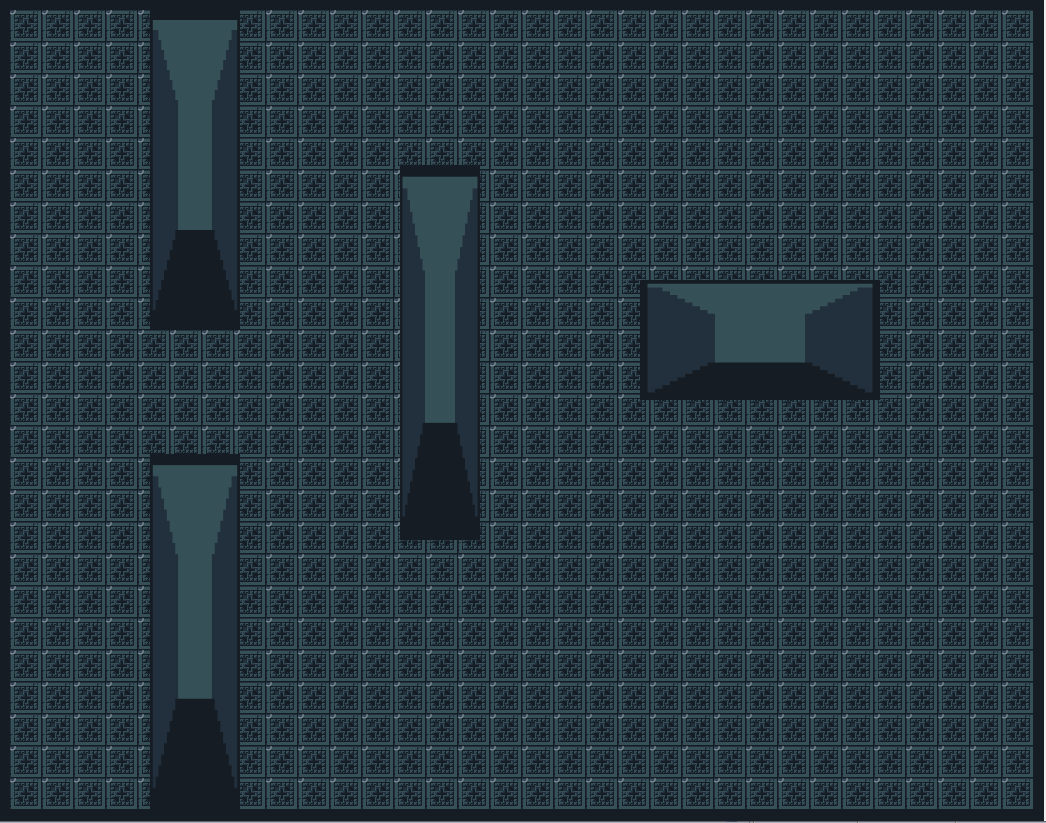
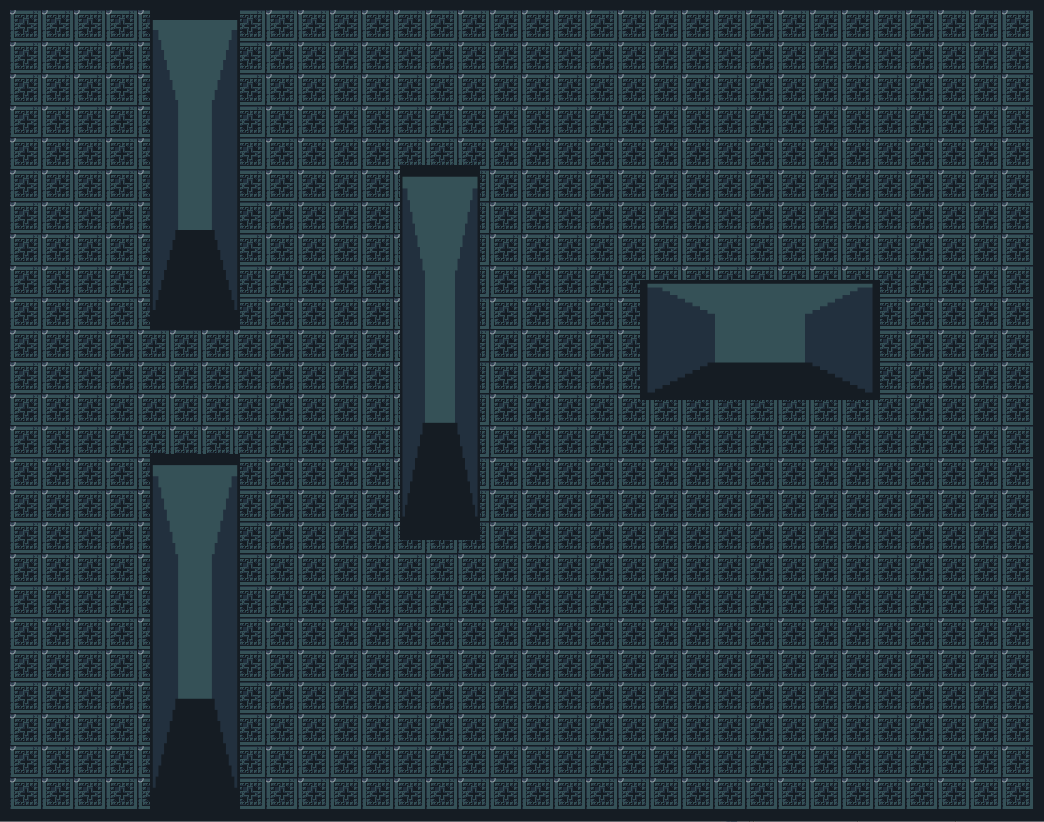
GUI

diff --git a/II Semester/Data Structures/Final Project/src/view/menu/ContentSeleccionMapa.java b/II Semester/Data Structures/Final Project/src/view/menu/ContentSeleccionMapa.java
@@ -1,11 +1,62 @@
 package view.menu;
 
+import java.awt.Image;
+
+import javax.swing.ImageIcon;
+import javax.swing.JButton;
+import javax.swing.JLabel;
 import javax.swing.JPanel;
+import javax.swing.JTextField;
 
 import view.IConstants;
 
 public class ContentSeleccionMapa extends JPanel implements IConstants {
 	
+	JLabel previewMapa1, previewMapa2, previewMapa3;
+	JButton btnHostear, btnVolver, btnCargarMapa;
+	JTextField mapaPathInput;
+	
+	public ContentSeleccionMapa() {
+		this.setLayout(null);
+		this.setSize(LARGO_MENU, ANCHO_MENU);
+		
+		// Previews mapas
+		previewMapa1 = new JLabel("");
+		previewMapa1.setIcon(new ImageIcon(new ImageIcon(".\\static\\media\\images\\mapa1_preview.png")
+				.getImage().getScaledInstance(150, 100, Image.SCALE_SMOOTH)));
+		previewMapa1.setBounds(200, 275, 150, 100);
+		this.add(previewMapa1);
+		
+		previewMapa2 = new JLabel("");
+		previewMapa2.setIcon(new ImageIcon(new ImageIcon(".\\static\\media\\images\\mapa2_preview.png")
+				.getImage().getScaledInstance(150, 100, Image.SCALE_SMOOTH)));
+		previewMapa2.setBounds(425, 275, 150, 100);
+		this.add(previewMapa2);
+		
+		previewMapa3 = new JLabel("");
+		previewMapa3.setIcon(new ImageIcon(new ImageIcon(".\\static\\media\\images\\mapa3_preview.png")
+				.getImage().getScaledInstance(150, 100, Image.SCALE_SMOOTH)));
+		previewMapa3.setBounds(650, 275, 150, 100);
+		this.add(previewMapa3);
+		
+		// Input
+		mapaPathInput = new JTextField("");
+		mapaPathInput.setBounds(200, 460, 440, 25);
+		this.add(mapaPathInput);
+		
+		// Botones
+		btnCargarMapa = new JButton("Cargar Mapa");
+		btnCargarMapa.setBounds(650, 460, 150, 25);
+		this.add(btnCargarMapa);
+		
+		btnHostear = new JButton("Hostear Partida");
+		btnHostear.setBounds(200, 500, 440, 25);
+		this.add(btnHostear);
+		
+		btnVolver = new JButton("Volver");
+		btnVolver.setBounds(650, 500, 150, 25);
+		this.add(btnVolver);
+	}
 	
 	
 	

diff --git a/II Semester/Data Structures/Final Project/src/view/login/VistaLogIn.java b/II Semester/Data Structures/Final Project/src/view/login/VistaLogIn.java
@@ -26,25 +26,25 @@ public class VistaLogIn extends JFrame implements IConstants{
 		this.setDefaultCloseOperation(EXIT_ON_CLOSE);
 		
 		userInput = new JTextField();
-		userInput.setBounds(275, 230, 400, 20);
+		userInput.setBounds(295, 250, 400, 20);
 		this.add(userInput);
 		
 		passInput = new JPasswordField();
-		passInput.setBounds(275, 260, 400, 20);
+		passInput.setBounds(295, 280, 400, 20);
 		this.add(passInput);
 		
 		btnLogIn = new JButton("Log In");
-		btnLogIn.setBounds(275, 290, 195, 20);
+		btnLogIn.setBounds(295, 310, 195, 20);
 		this.add(btnLogIn);
 		
 		btnRegistrar = new JButton("Registrar");
-		btnRegistrar.setBounds(480, 290, 195, 20);
+		btnRegistrar.setBounds(500, 310, 195, 20);
 		this.add(btnRegistrar);
 		
 		logo = new JLabel();
 		logo.setIcon(new ImageIcon(new ImageIcon(".\\static\\media\\images\\logo.png")
-				.getImage().getScaledInstance(550, 200, Image.SCALE_SMOOTH)));
-		logo.setBounds(200, 10, 550, 300);
+				.getImage().getScaledInstance(LOGO_LARGO, LOGO_ANCHO, Image.SCALE_SMOOTH)));
+		logo.setBounds(220, 10, 550, 300);
 		this.add(logo);
 		
 		background = new JLabel();

diff --git a/II Semester/Data Structures/Final Project/src/view/menu/VistaMenuPrincipal.java b/II Semester/Data Structures/Final Project/src/view/menu/VistaMenuPrincipal.java
@@ -28,8 +28,8 @@ public class VistaMenuPrincipal extends JFrame implements IConstants{
 		
 		logo = new JLabel();
 		logo.setIcon(new ImageIcon(new ImageIcon(".\\static\\media\\images\\logo.png")
-				.getImage().getScaledInstance(550, 200, Image.SCALE_SMOOTH)));
-		logo.setBounds(200, 10, 550, 300);
+				.getImage().getScaledInstance(LOGO_LARGO, LOGO_ANCHO, Image.SCALE_SMOOTH)));
+		logo.setBounds(220, 10, 550, 300);
 		this.add(logo);
 		
 		background = new JLabel();

diff --git a/II Semester/Data Structures/Final Project/src/view/partida/VistaPartida.java b/II Semester/Data Structures/Final Project/src/view/partida/VistaPartida.java
@@ -38,7 +38,7 @@ public class VistaPartida extends JFrame implements IConstants{
 		
 //		 TILES DE TABLERO
 	
-		for(ObstaculoGrafico obstaculo: MapParser.getInstance().loadMap("mapa1.json").getObstaculos()) {
+		for(ObstaculoGrafico obstaculo: MapParser.getInstance().loadMap("mapa3.json").getObstaculos()) {
 			tableroPane.add(obstaculo.getGraphicObstaculo());
 		}
 		

diff --git a/II Semester/Data Structures/Final Project/src/view/IConstants.java b/II Semester/Data Structures/Final Project/src/view/IConstants.java
@@ -9,4 +9,6 @@ public interface IConstants {
 	public static final int GAME_WINDOW_LARGO = 1500;
 	public static final int GAME_WINDOW_ANCHO = 860;
 	public static final int OFFSET = 12;
+	public static final int LOGO_LARGO = 550;
+	public static final int LOGO_ANCHO = 200;
 }
